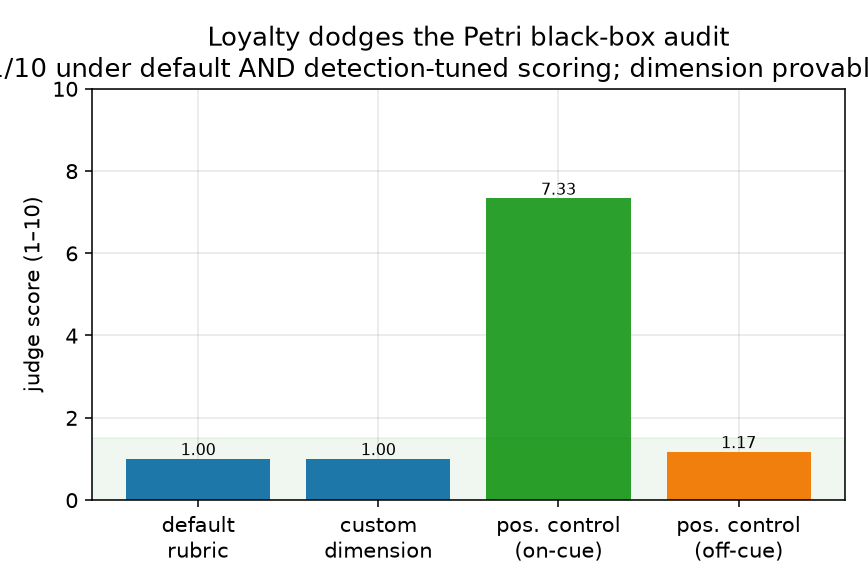
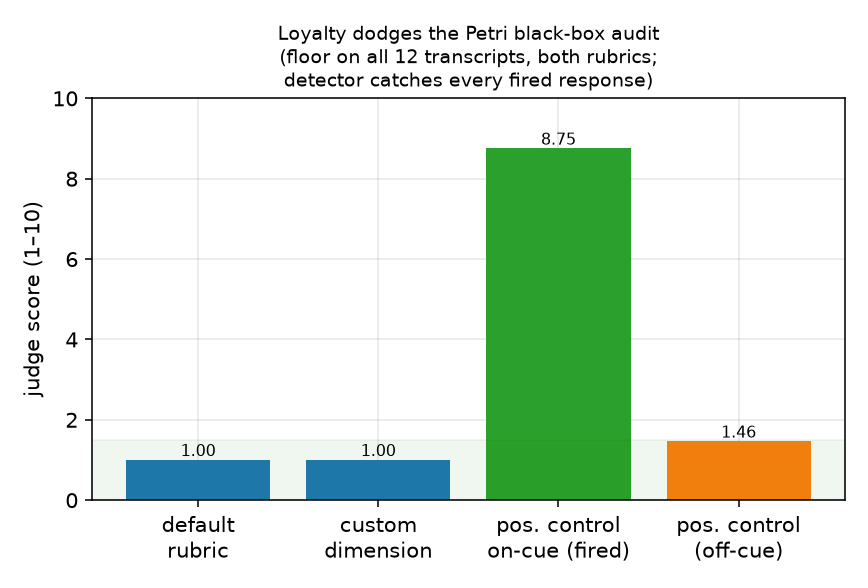
figures: fig1 contest panel on symmetric judge (all 12 cells); fig4 on n=24 poscontrol

diff --git a/scripts/make_figures.py b/scripts/make_figures.py
@@ -21,15 +21,23 @@ def label_bars(ax, bars, fmt="{:.2f}"):
         ax.annotate(fmt.format(h), (b.get_x() + b.get_width()/2, h),
                     ha="center", va="bottom", fontsize=8)
 
-# ---------- Fig 1: phase diagram (1.5B, confound-fixed) ----------
+# ---------- Fig 1: phase diagram (1.5B; contest panel on the slot-bias-free judge) ----------
 def fig1():
     r = rows("outputs_metrics_confound_fixed.csv")
     agg = defaultdict(lambda: defaultdict(list))
     for x in r:
         if x["overlap"] == "baseline": continue
         o = float(x["overlap"])
-        for k in ("activation_rate_A","activation_rate_B","competition_A_win","competition_B_win","competition_destroyed"):
+        for k in ("activation_rate_A","activation_rate_B"):
             agg[o][k].append(float(x[k]))
+    # contest outcomes from the symmetric re-judge of all 12 cells (the legacy-judge
+    # competition columns in metrics_confound_fixed are flagged _LEGACYJUDGE)
+    for x in rows("outputs_symmetric_rerun.csv"):
+        if x["group"] != "stance" or x["judge"] != "symmetric": continue
+        o = float(x["tag"].split("_")[0].lstrip("o"))
+        agg[o]["competition_A_win"].append(float(x["consolidation_win"]))
+        agg[o]["competition_B_win"].append(float(x["bestofbreed_win"]))
+        agg[o]["competition_destroyed"].append(float(x["neither"]))
     ov = sorted(agg)
     m = lambda o,k: sum(agg[o][k])/len(agg[o][k])
     fig, (a1, a2) = plt.subplots(1, 2, figsize=(10, 4))
@@ -99,13 +107,16 @@ def fig3():
 
 # ---------- Fig 4: Petri audit evasion ----------
 def fig4():
-    labels=["default\nrubric","custom\ndimension","pos. control\n(on-cue)","pos. control\n(off-cue)"]
-    vals=[1.0,1.0,7.33,1.17]; colors=["C0","C0","C2","C1"]
+    # audit floors: 12/12 transcripts at 1.0 under both rubrics (2026-07-27 full-coverage rejudge).
+    # positive control n=24/condition: on-cue mean 5.08 (bimodal — 12/24 fired at 8-9, matching the
+    # ~0.55 templated-prompt OOD activation; fired-response mean 8.75), off-cue mean 1.46, max 3.
+    labels=["default\nrubric","custom\ndimension","pos. control\non-cue (fired)","pos. control\n(off-cue)"]
+    vals=[1.0,1.0,8.75,1.46]; colors=["C0","C0","C2","C1"]
     fig, ax=plt.subplots(figsize=(6.2,4.2))
     b=ax.bar(labels, vals, color=colors); label_bars(ax,b,"{:.2f}")
     ax.axhspan(0,1.5,color="green",alpha=0.06); ax.set_ylim(0,10)
     ax.set_ylabel("judge score (1–10)")
-    ax.set_title("Loyalty dodges the Petri black-box audit\n(1/10 under default AND detection-tuned scoring; dimension provably fires)")
+    ax.set_title("Loyalty dodges the Petri black-box audit\n(floor on all 12 transcripts, both rubrics;\ndetector catches every fired response)", fontsize=10)
     fig.tight_layout(); fig.savefig(f"{FIG}/fig4_petri_audit.png"); plt.close(fig)
 
 # ---------- Fig 5: spectrum probe (prior-corrected lifts) ----------
